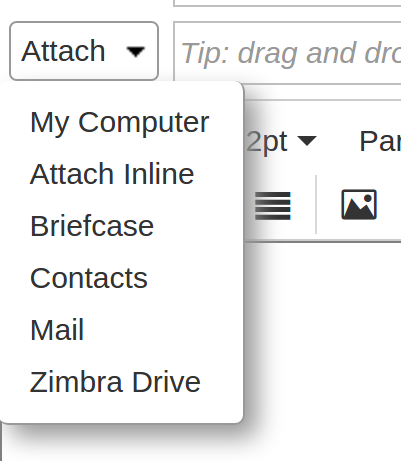
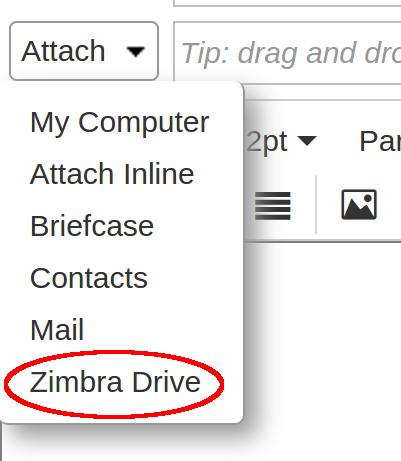
ZD-23 Started chapter Zimlet Tools

Changed region(s): [[0.0, 0.7592, 0.5686, 0.9111]]

diff --git a/docs-src/src/user-content/zimlet-tools/tab.tex b/docs-src/src/user-content/zimlet-tools/tab.tex
@@ -3,17 +3,36 @@
 The main option to interact with Drive is clicking on the Drive tab.
 This click can have two different behaviours: 
 \begin{itemize}
-\item{everything is fine and the main view(Figure //ref) will be opened}
-\item{cannot communicate with drive and an error view(Figure //ref) will be opened}
+    \item{everything is fine and the main drive view(Figure \ref{fig:view}) will be opened}
+    \item{cannot communicate with drive and the error view(Figure \ref{fig:errUnreachable}) will be opened}
 \end{itemize}
 
-A request with the current zimbra user credentials is sent to drive and his own drive space is shown:
-the drive view is composed by the left side with the complete tree of the folders 
-and the content of the current folder which is set to root at the first access.\\
-// figure Drive
+When the tab is clicked for the first time, a request with the current zimbra user credentials is sent to drive and 
+that request creates or loads the current user drive space. Then this space is shown in the drive view.\\
+The drive view is composed by the left sidebar with the complete tree of the folders 
+and the main view with the content of the current folder. On load the current folder is the root folder by default.\\
+\begin{figure}[htbp,!h] 
+\centering 
+\includegraphics[scale=0.25]{\srcPath/images/ZD-view.png} 
+\caption{Main View} 
+\label{fig:view}
+\end{figure}
 \\
 
-When the error view is shown(Figure //ref), it means that it's impossible for zimbra to communicate with the drive and
+\subsection{Navigate through Folders}
+The left sidebar let user opens selected folder by left single-clicking on it. 
+The selected folder becomes highlighted and the content is shown in the main view.\\
+Only the current folder content composed by files and folders is shown in the main view;
+the folders can be double-clicked in order to change folder to the selected one.\\
+It's possible to refresh the current drive view clicking on refresh icon in the top right corner, under the user account name(see Figure \ref{fig:view}).
+
+\subsection{Error View}
+When the error view is shown(Figure \ref{fig:errUnreachable}), it means that it's not possible for zimbra to communicate with the drive and
 only a sysadmin can fix the server configuration.\\
-// figure Error
-\\
+The user can retry without refreshing the zimbra using the linked button.
+\begin{figure}[htbp,!h] 
+\centering 
+\includegraphics[scale=0.18]{\srcPath/images/ZD-errorUnreachable.png} 
+\caption{Error View} 
+\label{fig:errUnreachable}
+\end{figure}

diff --git a/docs-src/src/user-content/zimlet-tools/search.tex b/docs-src/src/user-content/zimlet-tools/search.tex
@@ -1,1 +1,17 @@
 \section{Search}
+The Zimbra Drive search feature appears upon selecting the drive item in the dropdown search menu or changing to the drive view.
+The Zimbra Drive icon in the search toolbar means that the following search will be performed to the user own drive.
+\begin{figure}[htbp,!h] 
+\centering 
+\includegraphics[scale=0.25]{\srcPath/images/ZD-searchMenu.png} 
+\caption{Search Menu Item} 
+\label{fig:searchMenu}
+\end{figure}
+
+The search feature has a location command and a string filter.\\
+The location command is in the following:
+\begin{verbatim}
+in:"/Documents"
+\end{verbatim}
+
+\subsection{Search Folder Content}

diff --git a/docs-src/src/user-content/introduction.tex b/docs-src/src/user-content/introduction.tex
@@ -1,7 +1,7 @@
 \chapter{Introduction}
 This document shows the features provided by Zimbra Open Drive zimlet, from now referred as the zimlet.\\
 The main feature of the zimlet is a new tab titled "Drive" before the Preferences tab.
-If Drive tab is not visible suggests that the zimlet is not installed or is not active;
+If Drive tab is not visible, the zimlet is not installed or is not active;
 in this case only the sysadmin can solve the problem.\\
 \\
 When the zimlet is active, it let perform some actions with paired drive: browse, manage file and folder.\\

diff --git a/docs-src/src/user-content/zimlet-tools/attachment.tex b/docs-src/src/user-content/zimlet-tools/attachment.tex
@@ -1,1 +1,9 @@
 \section{Attach Document}
+An important feature of Zimbra Drive consists to attach drive documents dirctly from compose view.
+A dialog to choose folder popup and any document that complains the restrictions of the mail attachment can be added.\\
+\begin{figure}[htbp,!h] 
+\centering 
+\includegraphics[scale=0.25]{\srcPath/images/ZD-attachDialog.png} 
+\caption{Error View} 
+\label{fig:errUnreachable}
+\end{figure}
